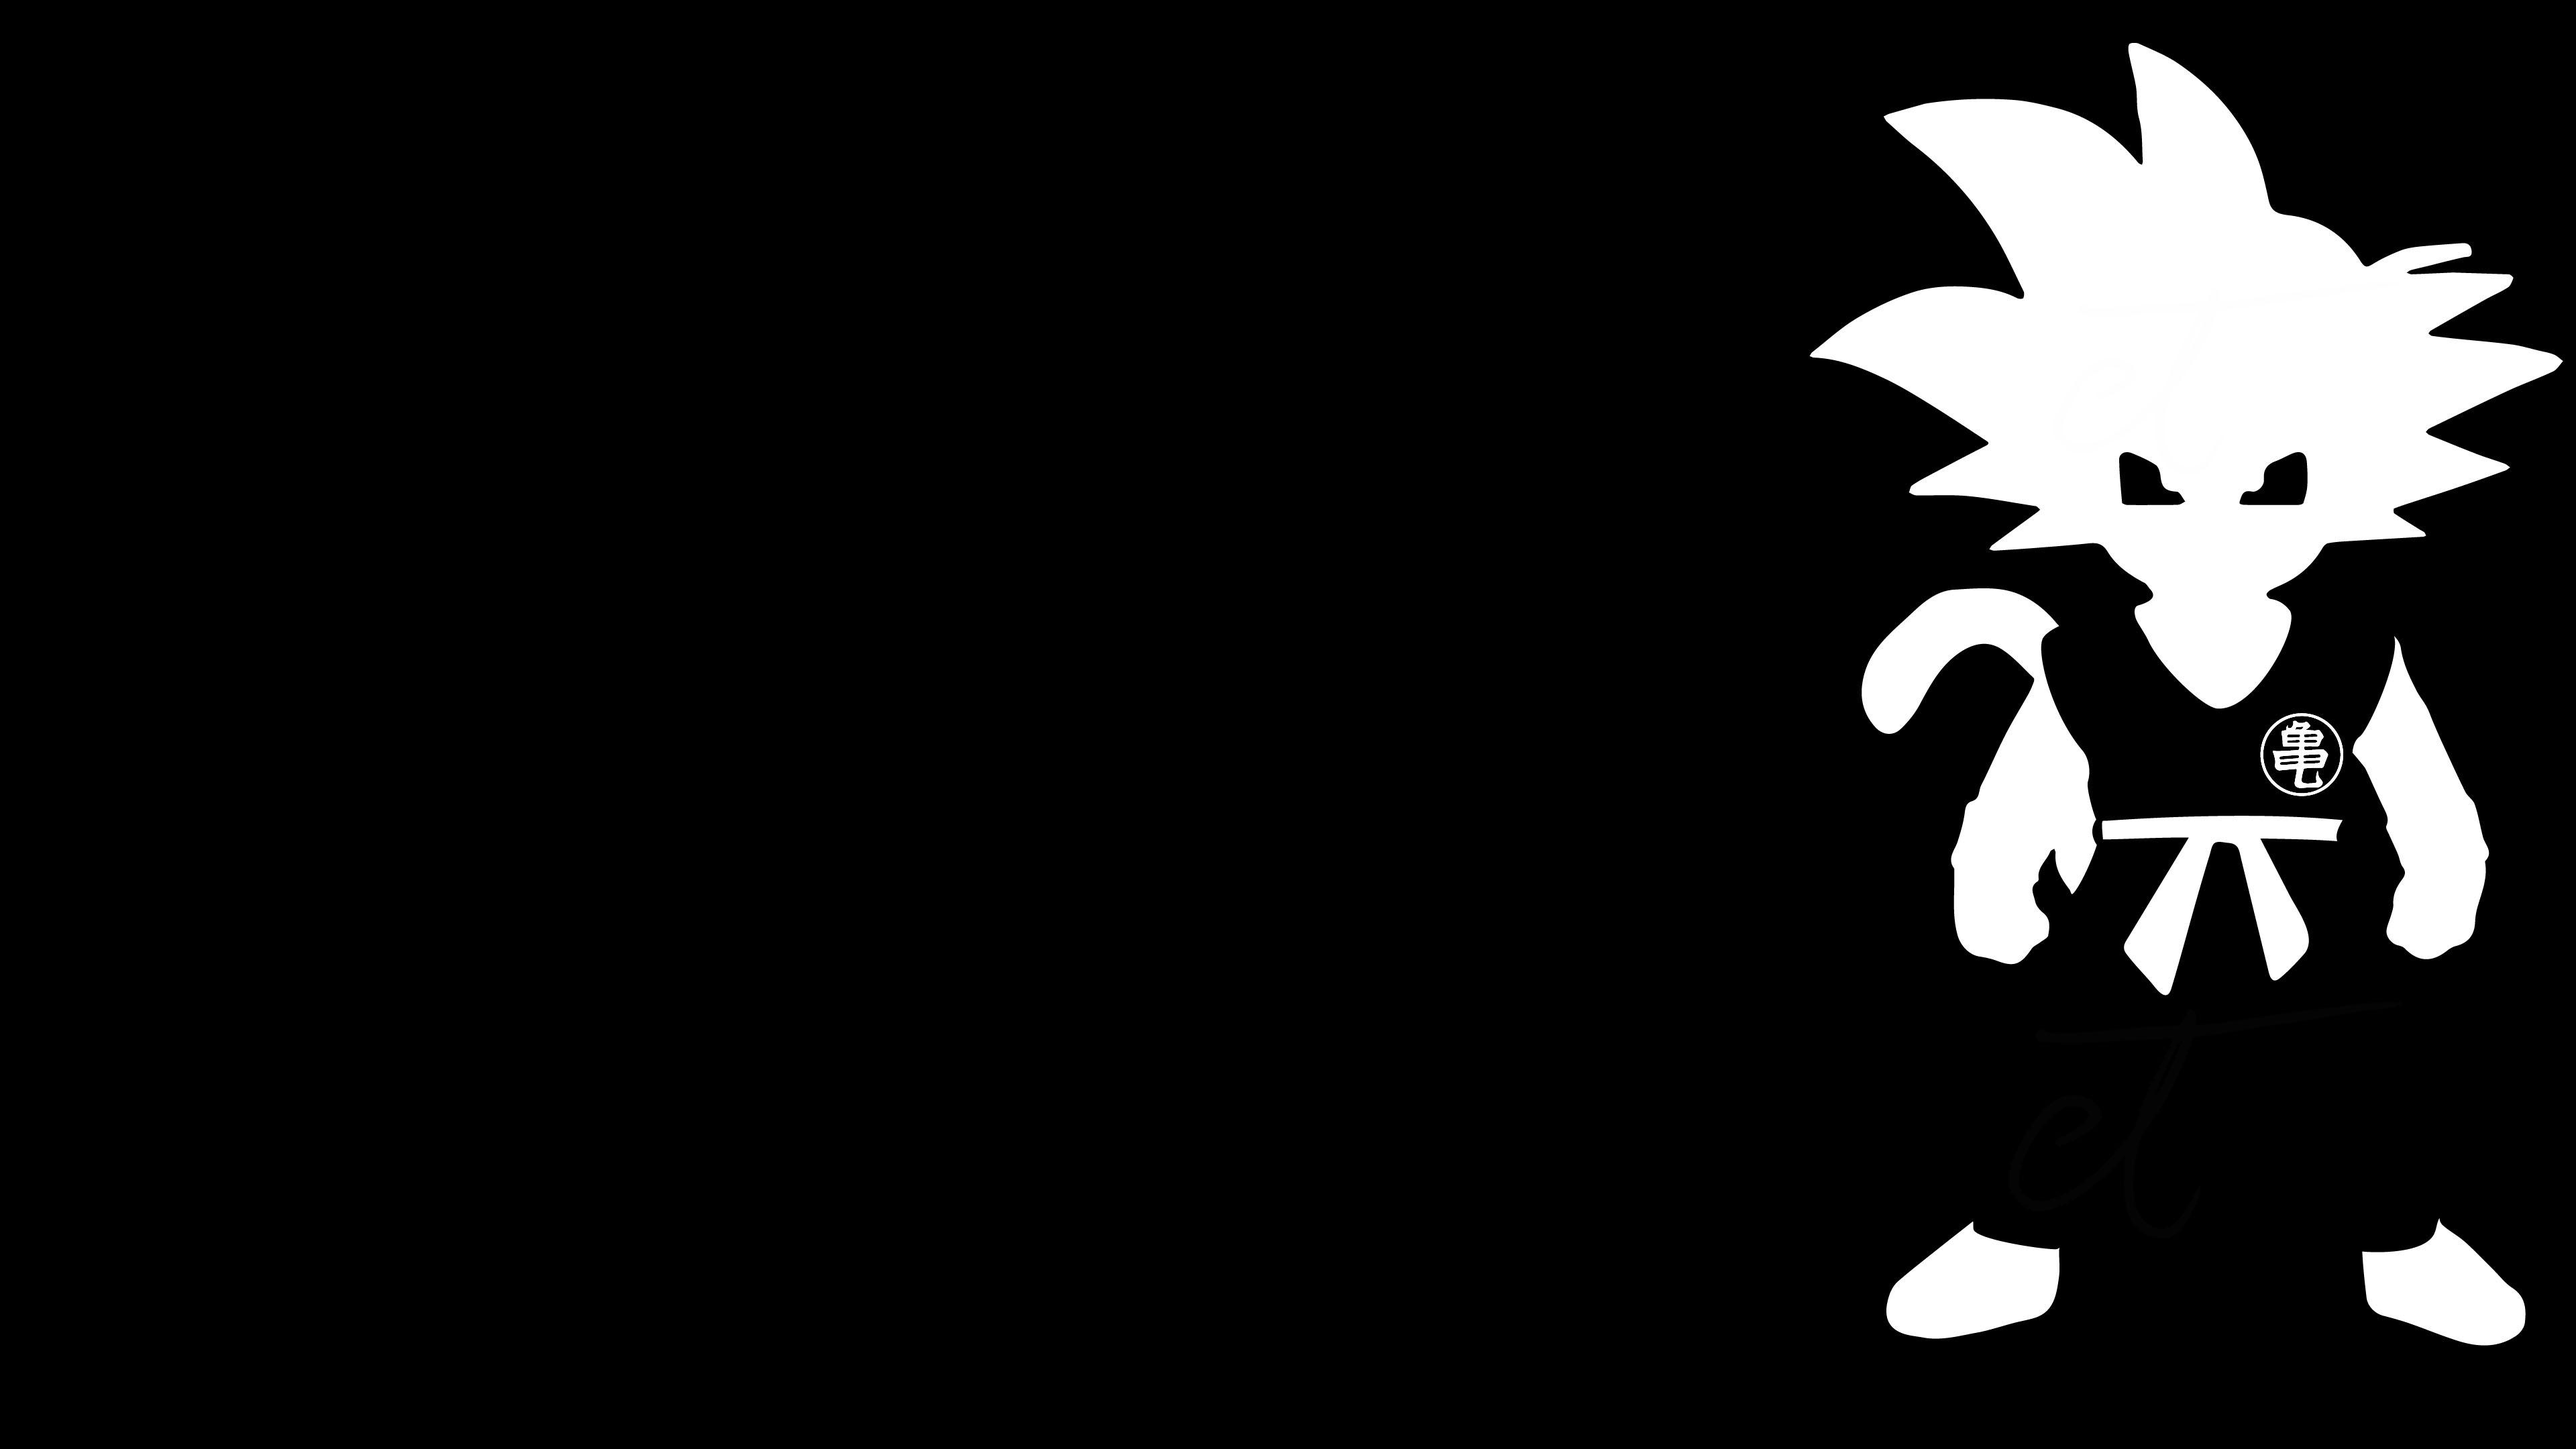
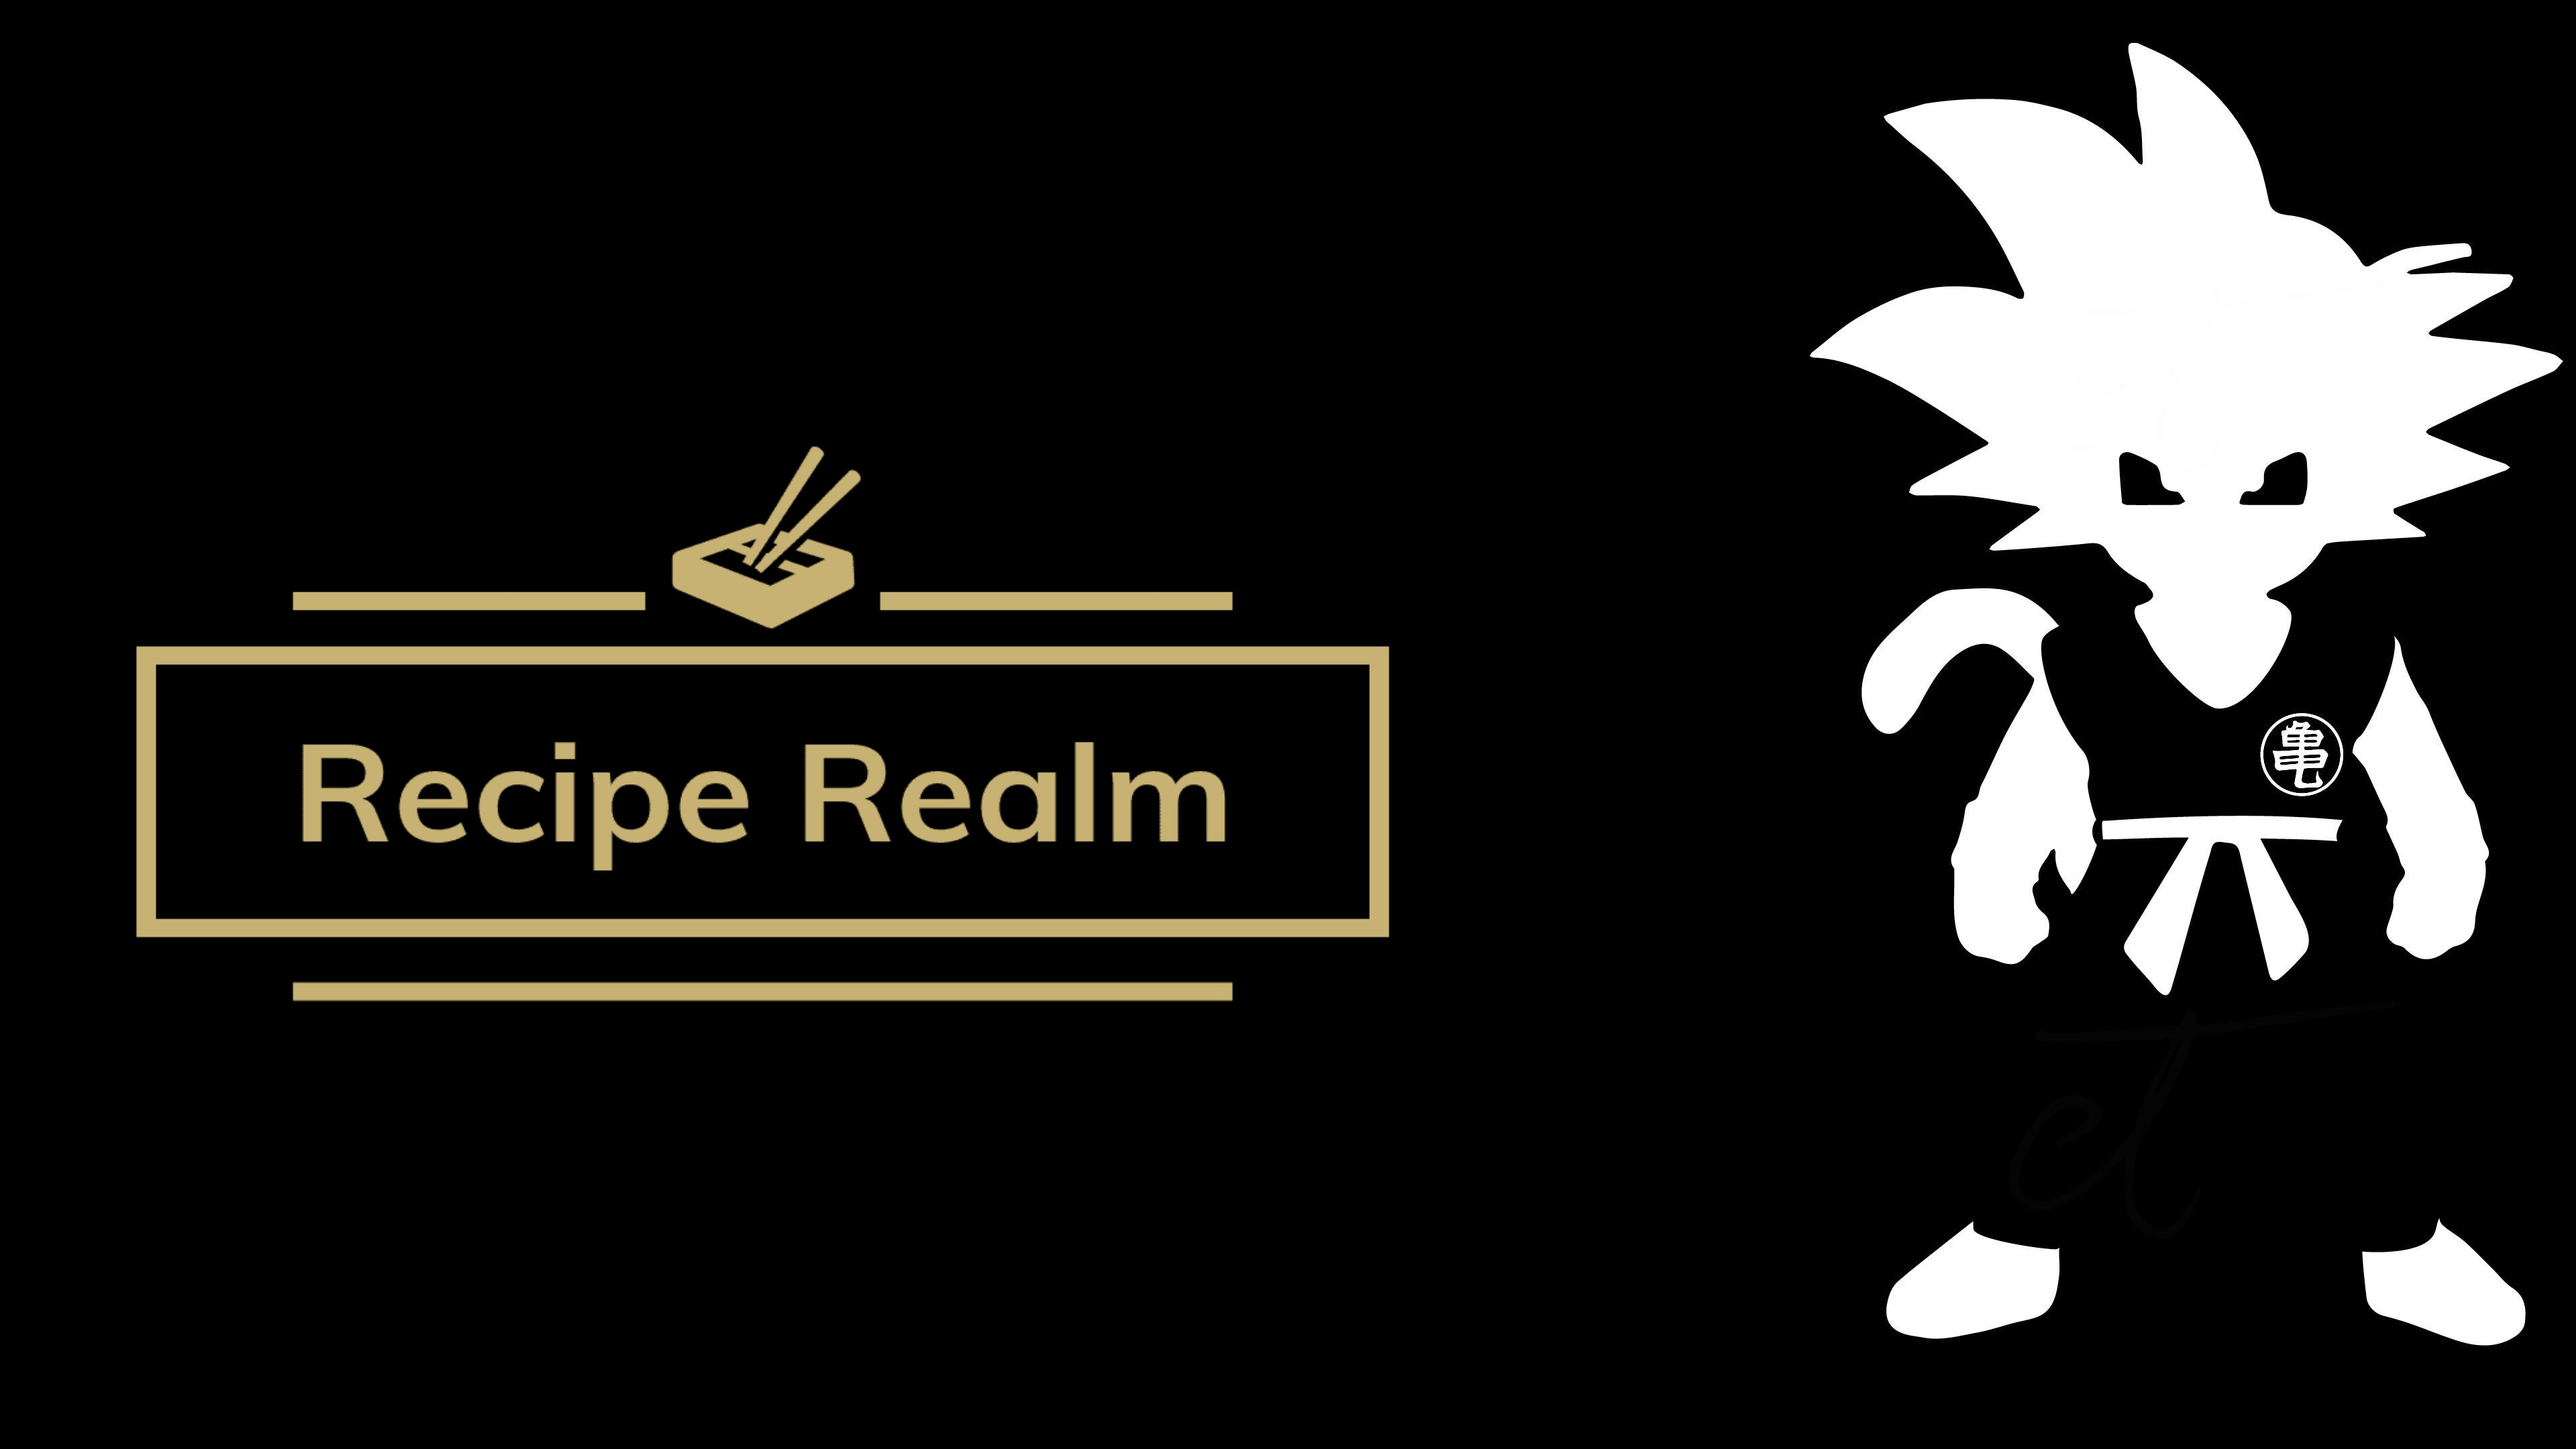
landing pg

Changed region(s): [[0.0312, 0.3102, 0.5625, 0.7134], [0.0938, 0.4963, 0.5, 0.5894]]

diff --git a/landing.html b/landing.html
@@ -1,0 +1,114 @@
+<!DOCTYPE html>
+<html lang="en">
+<head>
+    <meta charset="UTF-8">
+    <meta name="viewport" content="width=device-width, initial-scale=1.0">
+    <title>Recipe Realm | Home</title>
+    <link rel="stylesheet" href="https://cdn.jsdelivr.net/npm/swiper@9/swiper-bundle.min.css"/>
+    <link rel="stylesheet" href="https://cdnjs.cloudflare.com/ajax/libs/font-awesome/6.4.0/css/all.min.css"/>
+    <link rel="stylesheet" href="css/landing.css">
+</head>
+<body>
+  <header>
+    <h1>Welcome to Recipe Realm</h1>
+    <p>Your Recipe Oasis</p>
+    <p>Discover the most delightful recipes for every occasion</p>
+  </header>
+
+    <section class="featured-recipe">
+        <h2>Today's Featured Recipe</h2>
+        <div class="recipe-card">
+            <img src="images/4.jpg" alt="Featured Recipe">
+              <h3>Chips-Kuku</h3>
+              <p>Try this mouth-watering Kenyan dish with bold flavors.</p>
+              <a href="recipe.html" class="button">Get the Recipe</a>
+        </div>
+    </section>
+
+  <section class="recipe-collections">
+      <h2>Popular Recipe Collections</h2>
+        <div class="collection-card">
+          <img src="images/4.jpg" alt="Quick and Easy Meals Collection">
+          <h3>Quick and Easy Meals</h3>
+          <p>Explore a collection of delicious recipes ready in no time.</p>
+          <a href="recipe.html" class="button">Browse Recipes</a>
+        </div>
+        <div class="collection-card">
+          <img src="images/4.jpg" alt="Healthy Vegan Recipes Collection">
+          <h3>Healthy Vegan Recipes</h3>
+          <p>Discover nutritious plant-based recipes for a healthy lifestyle.</p>
+          <a href="recipe.html" class="button">Browse Recipes</a>
+        </div>
+  </section>
+
+
+  <section class="newsletter">
+    <h2>Subscribe for latest updates</h2>
+      <p>Stay up-to-date with our latest recipes and cooking tips.</p>
+      <form action="mailto:rrealm@gmail.com" method="POST">
+        <input type="email" name="email" placeholder="Enter your email" required>
+        <button type="submit">Subscribe</button>
+      </form>
+  </section>
+
+  <section class="reviews" id="reviews">
+    <h2 class="heading"><span>What Our Users Say</span></h2>
+
+    <div class="reviews-slider">
+
+      <div class="wrap">
+
+        <div class="box">
+          <img src="images/profile.png" alt="">
+          <h4>Mickey</h4>
+          <p>"The recipes on Recipe Realm are outstanding! I've tried several and they never disappoint."
+          </p>
+          <div class="stars">
+            <i class="fas fa-star"></i>
+            <i class="fas fa-star"></i>
+            <i class="fas fa-star"></i>
+            <i class="fas fa-star"></i>
+            <i class="fas fa-star-half-alt"></i>
+          </div>
+
+          <div class="box">
+            <img src="images/profile.png" alt="">
+            <h4>Jane</h4>
+            <p>"Healthy, flavorful, and easy-to-make vegetarian dishes. Love this site!"
+            </p>
+            <div class="stars">
+              <i class="fas fa-star"></i>
+              <i class="fas fa-star"></i>
+              <i class="fas fa-star"></i>
+              <i class="fas fa-star"></i>
+              <i class="fas fa-star"></i>
+            </div>
+
+            <div class="box">
+              <img src="images/profile.png" alt="">
+              <h4>Tim</h4>
+              <p>"Delicious and diverse recipes, easy to follow. Highly recommend!"
+              </p>
+              <div class="stars">
+                <i class="fas fa-star"></i>
+                <i class="fas fa-star"></i>
+                <i class="fas fa-star"></i>
+                <i class="fas fa-star"></i>
+                <i class="fas fa-star-half-alt"></i>
+              </div>
+
+        </div>
+      </div>
+    </div>
+
+
+
+  </section>
+
+  <footer>
+    <p>&copy; 2023 Recipe Realm. All rights reserved.</p>
+  </footer>
+
+
+</body>
+</html>

diff --git a/css/landing.css b/css/landing.css
@@ -1,0 +1,166 @@
+@import url('https://fonts.googleapis.com/css2?family=Source+Sans+Pro&display=swap');
+
+:root{
+  --green:#162938;
+  --dark-color:#219150;
+  --black:#444;
+  --light-color:#666;
+  --border:.1rem solid rgba(0,0,0,.1);
+  --border-hover:.1rem solid var(--black);
+  --box-shadow:0 .5rem 1rem rgba(0,0,0,.1);
+
+}
+
+/* Global styles */
+body {
+  font-family: 'Source Sans Pro', sans-serif;
+    margin: 0;
+    padding: 0;
+   
+
+  }
+  
+  h1, h2, h3 {
+    color: #333;
+  }
+  
+  a {
+    text-decoration: none;
+    color: #fff;
+  }
+  
+  .button {
+    display: inline-block;
+    background-color: #162938;
+    color: #fff;
+    padding: 10px 20px;
+    border-radius: 4px;
+    transition: background-color 0.3s ease;
+  }
+  
+  .button:hover {
+    background-color: #e64558;
+  }
+  
+  /* Header */
+  header {
+    background-color: #f7f7f7;
+    text-align: center;
+    padding: 40px;
+  }
+  
+  /* Featured Recipe section */
+  .featured-recipe {
+    background-color: #f1f1f1;
+    text-align: center;
+    padding: 40px;
+  }
+  
+  .recipe-card {
+    margin-bottom: 40px;
+  }
+  
+  .recipe-card img {
+    width: 100%;
+    max-width: 300px;
+    height: auto;
+    margin-bottom: 10px;
+  }
+  
+  /* Recipe Collections section */
+  .recipe-collections {
+    text-align: center;
+    padding: 40px;
+  }
+  
+  .collection-card {
+    display: inline-block;
+    vertical-align: top;
+    margin: 0 20px;
+    width: 300px;
+    text-align: center;
+    padding: 20px;
+    background-color: #f7f7f7;
+    border-radius: 4px;
+  }
+  
+  .collection-card img {
+    width: 100%;
+    max-width: 200px;
+    height: auto;
+    margin-bottom: 10px;
+  }
+  
+  /* Testimonial section */
+  .testimonial {
+    background-color: #f1f1f1;
+    text-align: center;
+    padding: 40px;
+  }
+  
+  .testimonial-card {
+    margin-bottom: 20px;
+  }
+  
+  /* Newsletter section */
+  .newsletter {
+    text-align: center;
+    padding: 40px;
+  }
+  
+  .newsletter p {
+    margin-bottom: 20px;
+  }
+  
+  .newsletter form input[type="email"] {
+    padding: 10px;
+    font-size: 16px;
+    border: 1px solid #ccc;
+    border-radius: 4px;
+    width: 250px;
+  }
+  
+  .newsletter form button {
+    padding: 10px 20px;
+    font-size: 16px;
+    background-color: #162938;
+    border: none;
+    border-radius: 4px;
+    color: #fff;
+    cursor: pointer;
+    transition: background-color 0.3s ease;
+  }
+  
+  .newsletter form button:hover {
+    background-color: #e64558;
+  }
+  
+  .reviews{
+    text-align: center;
+  }
+
+  .reviews .wrap .box{
+   
+    
+    text-align: center;
+  }
+/*
+  .reviews .reviews-slider .box{
+    width: 30rem;
+    border: var(--border);S
+    padding: 2rem;
+    text-align:center;
+
+  }
+*/
+
+
+
+  /* Footer */
+  footer {
+    background-color: #333;
+    color: #fff;
+    text-align: center;
+    padding: 20px;
+  }
+  
